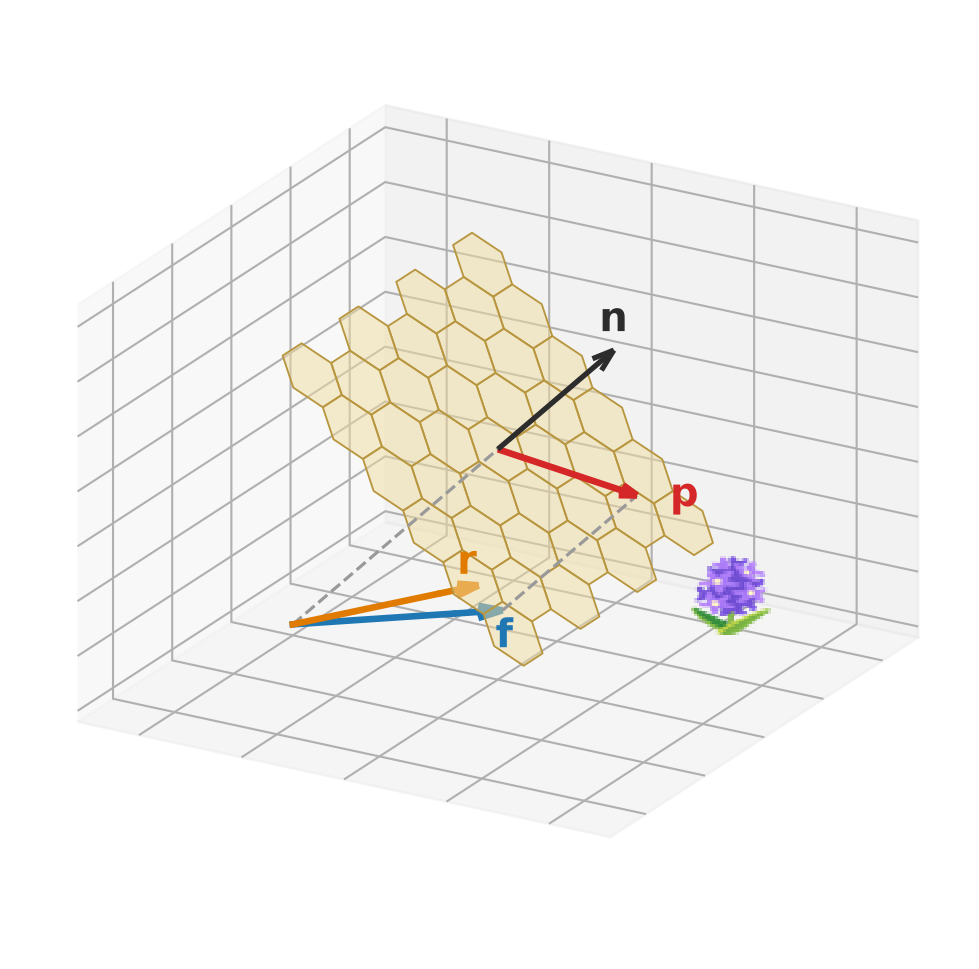
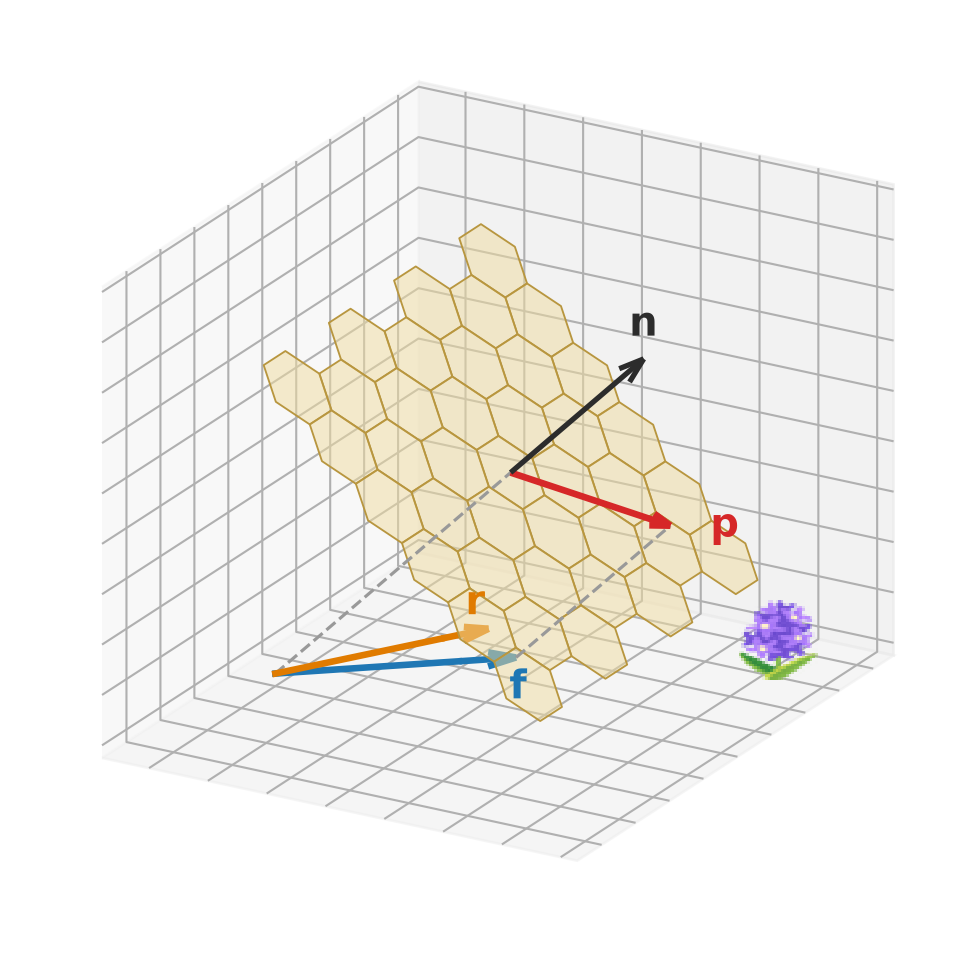
Trim empty space around the comb, especially the foreground
Use asymmetric axis limits: the camera views from +x/-y, so the empty
foreground is the high-x, low-y corner. Pull those two edges in harder than
the others (the flower sits far back at +y and would be clipped by a
symmetric trim), tightening the frame around the comb.

diff --git a/experiments/illustrate_direct_decode.py b/experiments/illustrate_direct_decode.py
@@ -329,9 +329,12 @@ def main() -> None:
         arrow_length_ratio=0.15, zorder=5,
     )
 
-    xlim = (-1.3, 1.3)
-    ylim = (-1.3, 1.3)
-    zlim = (-0.05, 1.85)
+    # Asymmetric limits: the camera looks from +x/-y, so the empty foreground
+    # is the high-x, low-y corner. Trim those two edges harder than the others
+    # (the flower sits far back at +y, so a symmetric trim would clip it).
+    xlim = (-1.2, 0.82)
+    ylim = (-0.93, 1.4)
+    zlim = (-0.05, 1.82)
     ax.set_xlim(*xlim)
     ax.set_ylim(*ylim)
     ax.set_zlim(*zlim)
